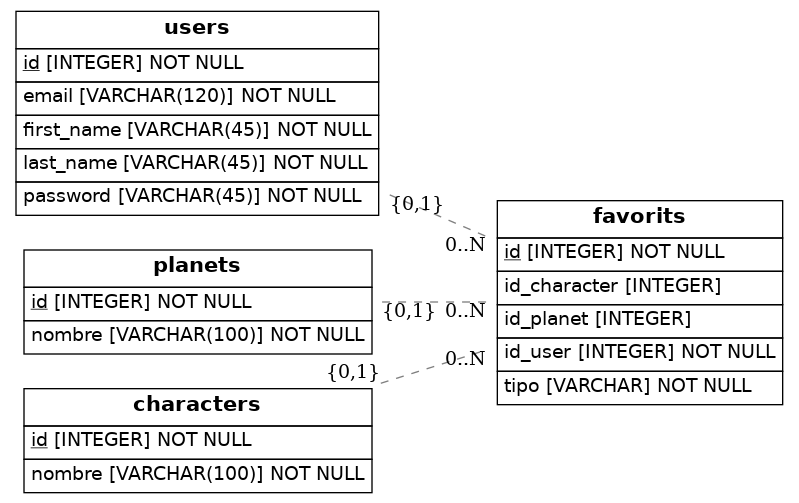
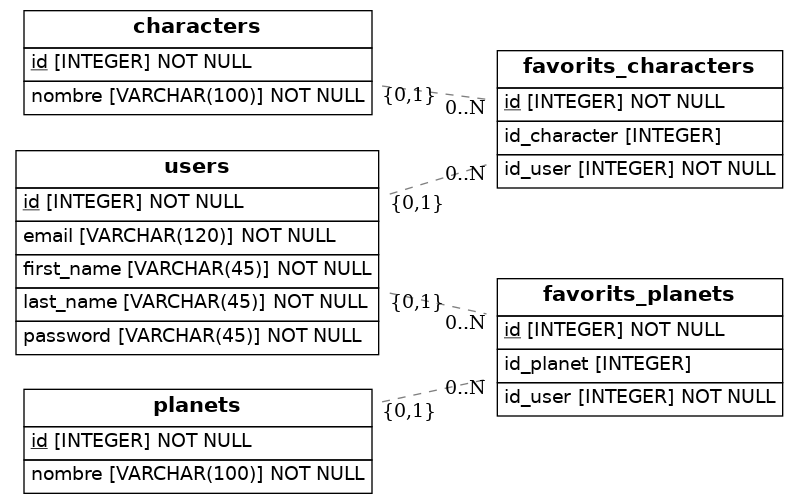
con dos tablas de favoritos

diff --git a/src/models.py b/src/models.py
@@ -25,15 +25,21 @@ class Character(Base):
     id = Column(Integer, primary_key=True)
     nombre = Column(String(100), nullable=False)
 
-class Favorit(Base):
-    __tablename__ = 'favorits'
+class FavoritChar(Base):
+    __tablename__ = 'favorits_characters'
     id = Column(Integer, primary_key=True)
     id_user = Column(Integer, ForeignKey('users.id'), nullable=False)
-    tipo = Column(Enum, nullable=False)
     id_character = Column(Integer, ForeignKey('characters.id'), nullable=True)
-    id_planet = Column(Integer, ForeignKey('planets.id'), nullable=True)
     user = relationship(User)
     character = relationship(Character)
+
+
+class FavoritPla(Base):
+    __tablename__ = 'favorits_planets'
+    id = Column(Integer, primary_key=True)
+    id_user = Column(Integer, ForeignKey('users.id'), nullable=False)
+    id_planet = Column(Integer, ForeignKey('planets.id'), nullable=True)
+    user = relationship(User)
     planet = relationship(Planet)
 
 
